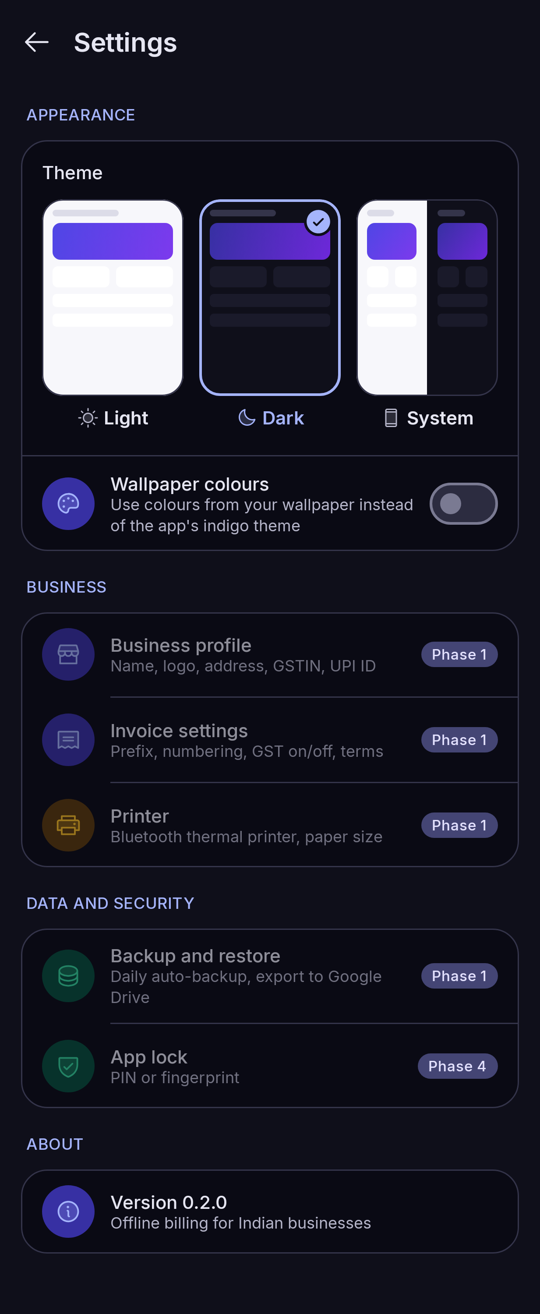
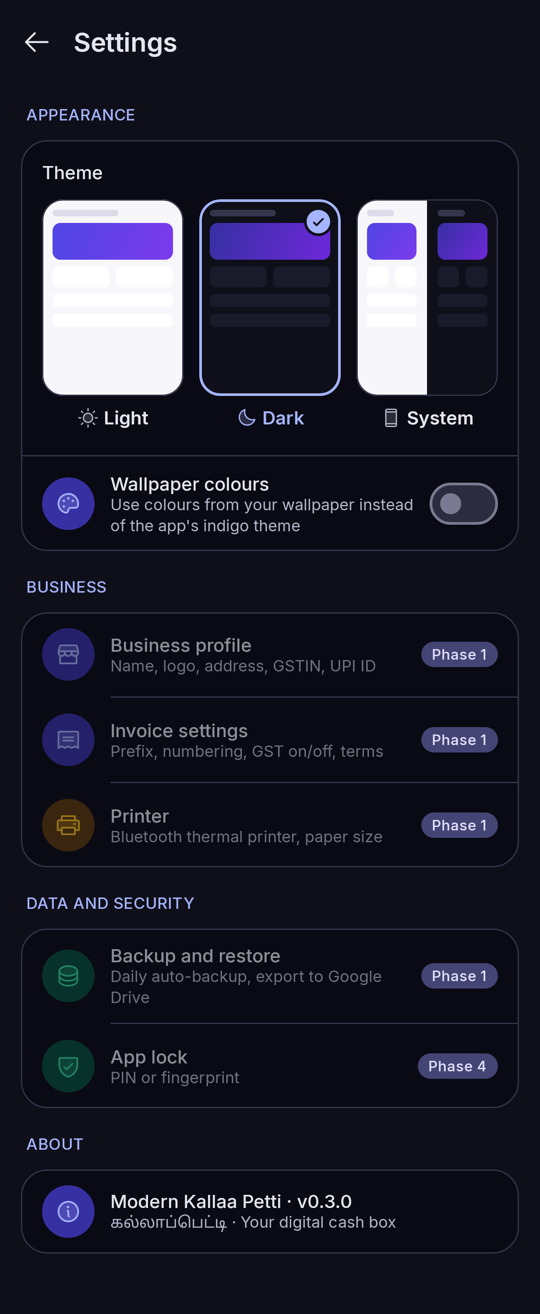
Rename app to Modern Kallaa Petti (v0.3.0)
- Full name "Modern Kallaa Petti" for App info and Settings; home-screen
  label "Kallaa Petti" so it is not truncated by launchers
- About row shows the Tamil name (கல்லாப்பெட்டி) and tagline
- README and plan updated with the chosen brand

Claude-Session: https://claude.ai/code/session_011xmic3ihWqzLAFMi7kBggB

Changed region(s): [[0.2074, 0.9049, 0.7111, 0.9361]]

diff --git a/feature/settings/src/test/kotlin/online/draran/billing/feature/settings/SettingsScreenshotTest.kt b/feature/settings/src/test/kotlin/online/draran/billing/feature/settings/SettingsScreenshotTest.kt
@@ -30,7 +30,7 @@ class SettingsScreenshotTest {
                 Box(Modifier.height(1000.dp)) {
                     SettingsScreen(
                         preferences = UserPreferences(themeMode = mode),
-                        versionName = "0.2.0",
+                        versionName = "0.3.0",
                         dynamicColorSupported = true,
                         onThemeModeChange = {},
                         onDynamicColorChange = {},

diff --git a/README.md b/README.md
@@ -1,11 +1,13 @@
-# EasyBill (working name; app display name: Kounter)
+# Modern Kallaa Petti (MKP)
+
+*கல்லாப்பெட்டி — the shop cash box, made digital.* Repository codename: EasyBill.
 
 Offline-first billing and inventory app for Android, for GST and non-GST
 shops in India. Kotlin + Jetpack Compose + Material 3. Zero running cost: all
 data stays on the phone.
 
 - Project plan: [docs/easybill_project-plan_v2.md](docs/easybill_project-plan_v2.md)
-- Status: **v0.2.0** — Phase 0 complete, plus Light/Dark/System theme setting and Phosphor duotone icons
+- Status: **v0.3.0** — Phase 0 complete, theme setting, Phosphor duotone icons, final brand name
 
 | Dashboard (light) | Dashboard (dark) | Empty state |
 |---|---|---|
@@ -48,6 +50,7 @@ Icons are generated from Phosphor SVGs: `python3 tools/generate_icons.py <phosph
 
 ## Changelog
 
+- **0.3.0** — App renamed to **Modern Kallaa Petti**; home-screen label "Kallaa Petti".
 - **0.2.0** — Theme setting (Light default, Dark, System) saved on device, with a
   sun/moon toggle on the dashboard and a Settings screen with live previews;
   optional wallpaper colours (Android 12+); status bar follows the app theme;

diff --git a/docs/easybill_project-plan_v2.md b/docs/easybill_project-plan_v2.md
@@ -380,7 +380,18 @@ Because there is no server, data protection is a priority.
 
 ## 17. Brand
 
-### Name
+### Name — chosen: **Modern Kallaa Petti (MKP)** (2 October 2026)
+
+*Kallaa petti* (கல்லாப்பெட்டி) is the cash box at a Tamil shop counter; "Modern"
+marks it as the digital version. The full name is used in App info, Settings and
+the store listing; the home-screen label is "Kallaa Petti" because launchers cut
+labels at about 12 characters. The spelling "Kallaa" (long ā, as in கல்லா) keeps
+it apart from existing "Kalla" brands. No app named Kallaa Petti was found in a
+web search on 2 October 2026; an IP India trademark search is still required
+before the public release.
+
+Earlier shortlist (for the record):
+
 "EasyBill" is already used by at least four apps on the Play Store, including an
 Indian GST billing app, so it is kept only as the repository name.
 
